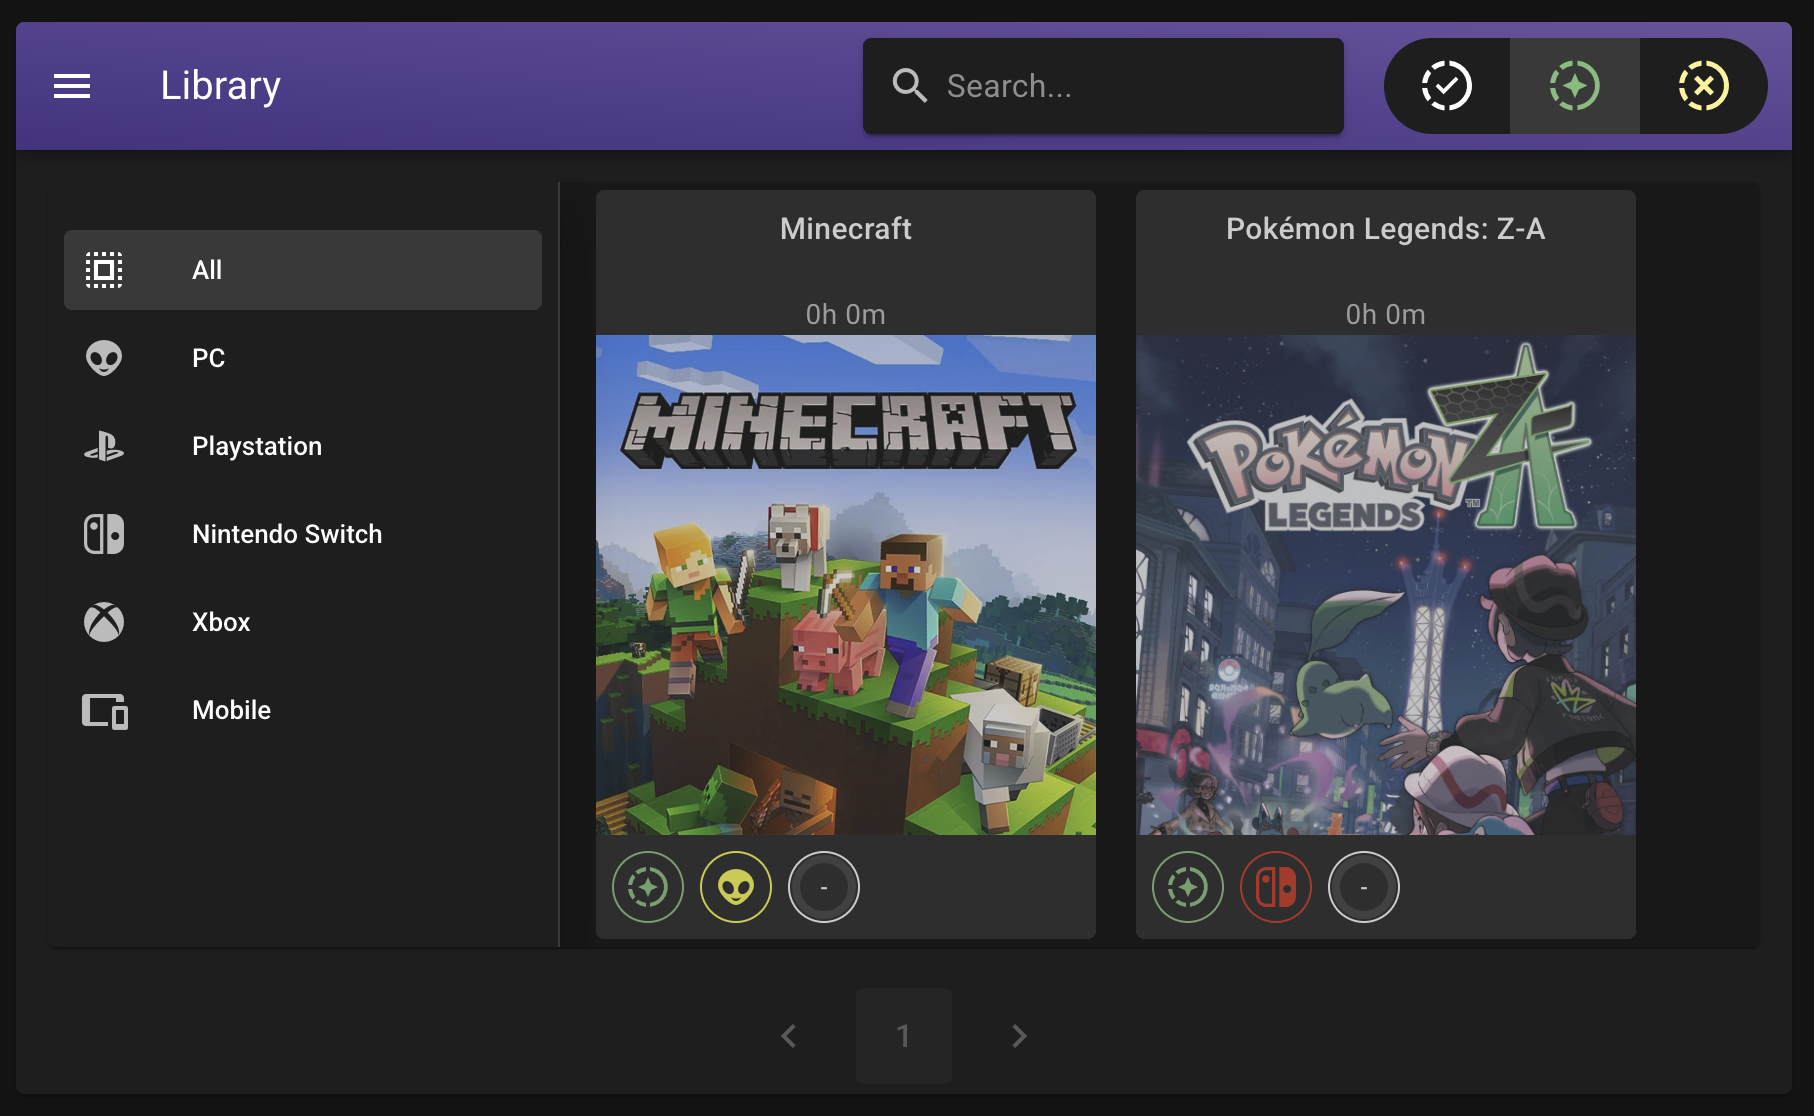
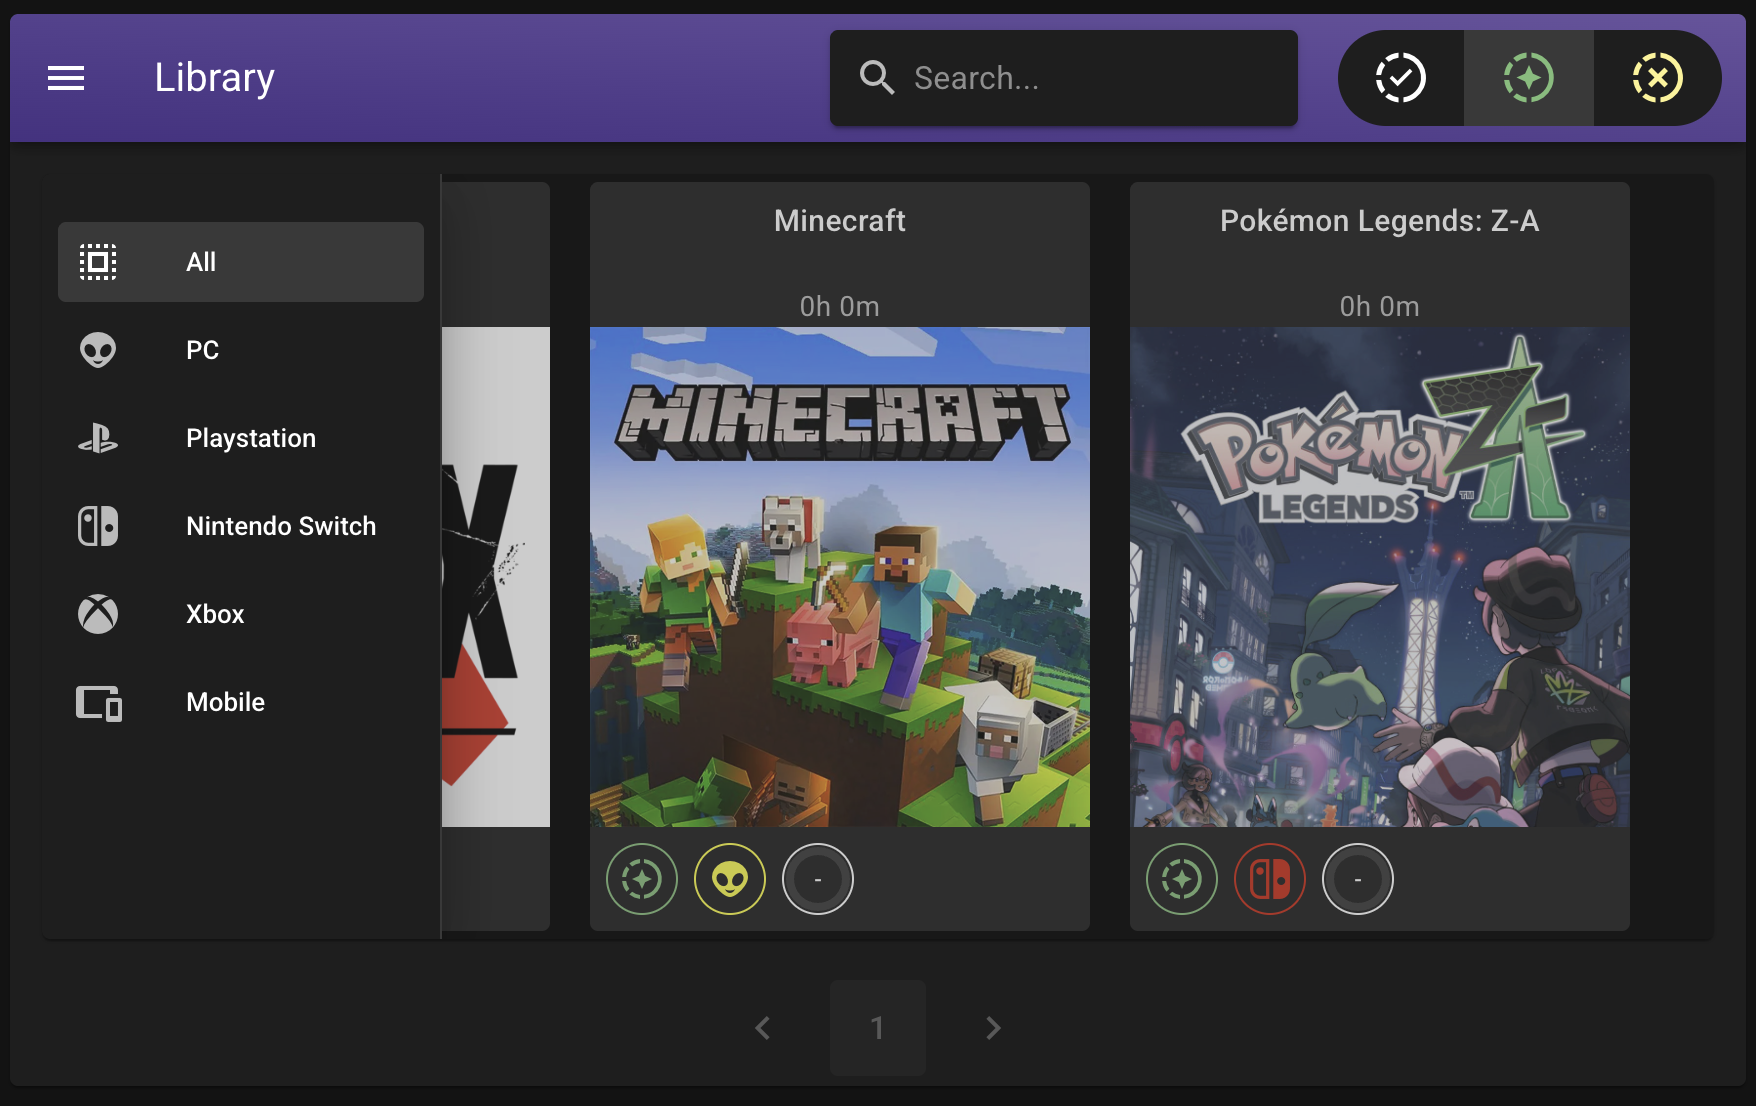
some fixes

diff --git a/vue/src/components/Game.vue b/vue/src/components/Game.vue
@@ -61,7 +61,12 @@
           <v-container fluid>
             <v-card>
               <v-layout>
-                <v-navigation-drawer v-model="drawer" expand-on-hover rail>
+                <v-navigation-drawer
+                  v-model="drawer"
+                  expand-on-hover
+                  rail
+                  width="200"
+                >
                   <v-list>
                     <v-list-item
                       v-if="token"
@@ -667,16 +672,19 @@ const filteredGames = (status: string | undefined) => {
   if (!games?.value) {
     return [];
   }
-  if (status === undefined || status === "") {
-    return games.value;
-  }
-  return games.value.filter((game) => game.status === status);
+  return games.value.filter((game) => {
+    const statusMatch = !status || game.status === status;
+    const platformMatch =
+      platform.value === "All" || game.platform === platform.value;
+    return statusMatch && platformMatch;
+  });
 };
 
 const fetchGames = async () => {
   try {
     const baseURL = `/api/game/pages?page=${currentPage.value}`;
     let queryParam = status.value ? `&status=${status.value}` : "";
+    queryParam += platform.value ? `&platform=${platform.value}` : "";
     queryParam += keyword.value ? `&keyword=${keyword.value}` : "";
     const response = await fetch(`${baseURL}${queryParam}`);
     if (!response.ok) {
